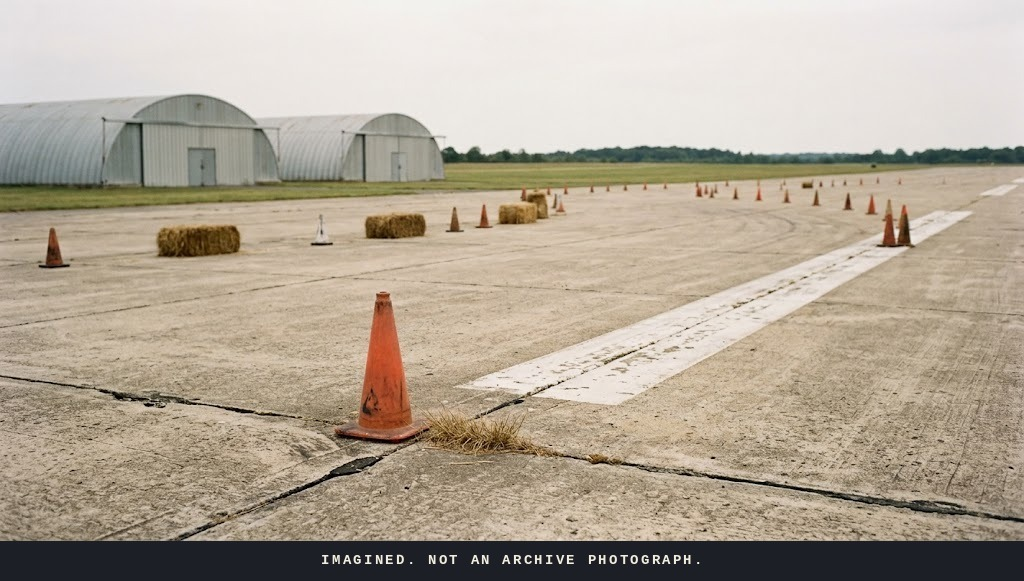
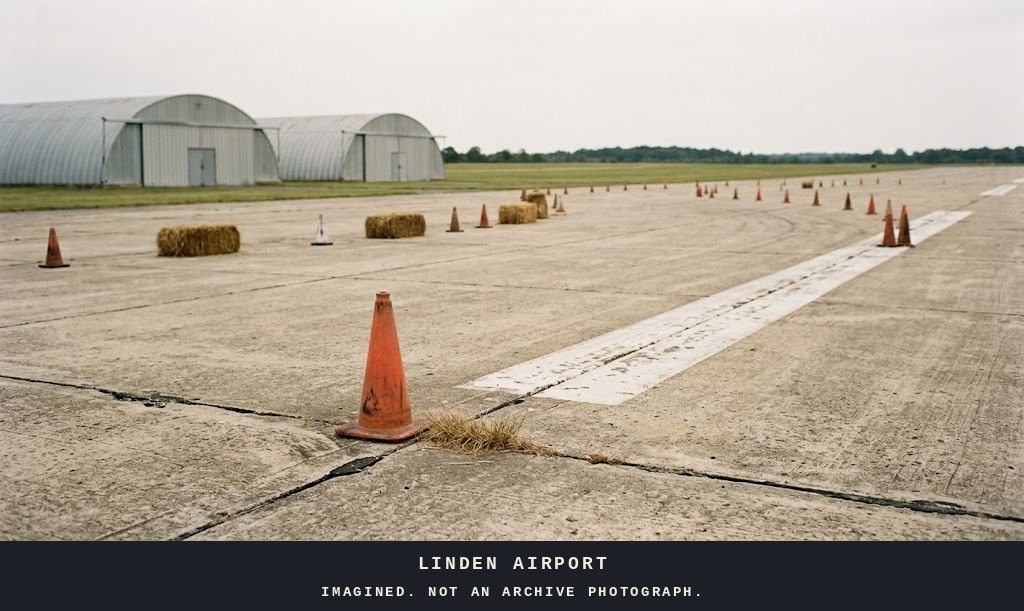
Ghost Tracks: plate titles, track name in burned-in label, expanded entries

diff --git a/ghost-tracks/north-carolina-state-fairgrounds/index.html b/ghost-tracks/north-carolina-state-fairgrounds/index.html
@@ -10,12 +10,12 @@
 <link rel="manifest" href="/site.webmanifest" />
 <meta name="theme-color" content="#1c1f26" />
 <title>North Carolina State Fairgrounds — Ghost Tracks — Throttle &amp; Rust</title>
-<meta name="description" content="Three Grand National races were run on the half-mile dirt oval at the North Carolina State Fairgrounds in Raleigh, and the last of them closed a door that stayed shut for half a ce" />
+<meta name="description" content="The half-mile dirt oval at the North Carolina State Fairgrounds in Raleigh opened in 1928, when the fair moved to the site it still occupies" />
 <link rel="canonical" href="https://throttleandrust.com/ghost-tracks/north-carolina-state-fairgrounds/" />
 <meta property="og:type" content="website" />
 <meta property="og:site_name" content="Throttle &amp; Rust" />
 <meta property="og:title" content="North Carolina State Fairgrounds — Ghost Tracks — Throttle &amp; Rust" />
-<meta property="og:description" content="Three Grand National races were run on the half-mile dirt oval at the North Carolina State Fairgrounds in Raleigh, and the last of them closed a door that stayed shut for half a ce" />
+<meta property="og:description" content="The half-mile dirt oval at the North Carolina State Fairgrounds in Raleigh opened in 1928, when the fair moved to the site it still occupies" />
 <meta property="og:url" content="https://throttleandrust.com/ghost-tracks/north-carolina-state-fairgrounds/" />
 <meta property="og:image" content="https://throttleandrust.com/images/ghost-tracks-nc-fairgrounds.jpg" />
 <meta name="twitter:card" content="summary_large_image" />
@@ -162,9 +162,9 @@
   <div class="header-eyebrow" style="margin-top:26px;">Ghost tracks</div>
   <h1 class="entry-title">North Carolina State Fairgrounds</h1>
   <div class="meta">Raleigh, North Carolina &nbsp;&middot;&nbsp; Three Cup races, 1955–1970</div>
-  <figure class="art entry-art"><img src="/images/ghost-tracks-nc-fairgrounds.jpg" alt="An empty half-mile dirt oval on flat fairground ground in early evening, a long low covered wooden grandstand on plain posts along the far side, bare utility poles behind it, thin dust over the far turn." loading="lazy" /><figcaption>The grandstand outlived the racing. This is the racing, put back. Imagined from the record. Not an archive photograph.</figcaption></figure>
+  <figure class="art entry-art"><img src="/images/ghost-tracks-nc-fairgrounds.jpg" alt="An empty half-mile dirt oval on flat fairground ground in early evening, a long low covered wooden grandstand on plain posts along the far side, bare utility poles behind it, thin dust over the far turn." loading="lazy" /><figcaption>The Last Dirt Half-Mile, Imagined. Not an archive photograph.</figcaption></figure>
 
-  <div class="entry-body"><p>Three Grand National races were run on the half-mile dirt oval at the North Carolina State Fairgrounds in Raleigh, and the last of them closed a door that stayed shut for half a century. Junior Johnson won the first, in May 1955, in a race rain cut short of its distance. David Pearson took the North State 200 in June 1969, leading 182 of the 200 laps. Richard Petty won the Home State 200 on September 30, 1970, and that afternoon turned out to be the final time NASCAR&#x27;s top division raced on dirt for fifty-one years, until the series returned to a clay-covered Bristol in 2021. The fairgrounds gave up racing shortly after. The grandstand is still standing, still owned by the state, and still put to use every October.</p></div>
+  <div class="entry-body"><p>The half-mile dirt oval at the North Carolina State Fairgrounds in Raleigh opened in 1928, when the fair moved to the site it still occupies. It held three Grand National races across fifteen years, and the last of them closed a door that stayed shut for half a century.</p><p>Junior Johnson won the first, in May 1955, in a race rain cut short of its distance. Fourteen years passed before the series came back. David Pearson took the North State 200 in June 1969, leading 182 of the 200 laps, with Richard Petty second. Petty won the Home State 200 the following September, leading the last 112 laps in front of a crowd of about six thousand.</p><p>That afternoon, September 30, 1970, turned out to be the final time NASCAR&#x27;s top division raced on dirt. The surface did not come back to the schedule for fifty-one years, until the series ran a clay-covered Bristol in 2021. The fairgrounds gave up racing shortly after 1970. The grandstand is still standing, still owned by the state, and still put to use every October.</p></div>
 
   <hr class="rule" />
   <div class="sources-label">Sources</div>

diff --git a/ghost-tracks/linden-airport/index.html b/ghost-tracks/linden-airport/index.html
@@ -10,12 +10,12 @@
 <link rel="manifest" href="/site.webmanifest" />
 <meta name="theme-color" content="#1c1f26" />
 <title>Linden Airport — Ghost Tracks — Throttle &amp; Rust</title>
-<meta name="description" content="Exactly one NASCAR Grand National race was ever held at Linden Airport, on a two-mile course laid out across the runways, and it produced a result the series has never repeated" />
+<meta name="description" content="Exactly one NASCAR Grand National race was ever held at Linden Airport, on a two-mile course laid out across the runways of a working airfield in New Jersey, and it produced a resu" />
 <link rel="canonical" href="https://throttleandrust.com/ghost-tracks/linden-airport/" />
 <meta property="og:type" content="website" />
 <meta property="og:site_name" content="Throttle &amp; Rust" />
 <meta property="og:title" content="Linden Airport — Ghost Tracks — Throttle &amp; Rust" />
-<meta property="og:description" content="Exactly one NASCAR Grand National race was ever held at Linden Airport, on a two-mile course laid out across the runways, and it produced a result the series has never repeated" />
+<meta property="og:description" content="Exactly one NASCAR Grand National race was ever held at Linden Airport, on a two-mile course laid out across the runways of a working airfield in New Jersey, and it produced a resu" />
 <meta property="og:url" content="https://throttleandrust.com/ghost-tracks/linden-airport/" />
 <meta property="og:image" content="https://throttleandrust.com/images/ghost-tracks-linden.jpg" />
 <meta name="twitter:card" content="summary_large_image" />
@@ -162,9 +162,9 @@
   <div class="header-eyebrow" style="margin-top:26px;">Ghost tracks</div>
   <h1 class="entry-title">Linden Airport</h1>
   <div class="meta">Linden, New Jersey &nbsp;&middot;&nbsp; One Cup race, 1954</div>
-  <figure class="art entry-art"><img src="/images/ghost-tracks-linden.jpg" alt="A wide expanse of weathered concrete runway under flat overcast light, a curving line of small traffic cones marking a temporary course across it, two low arched hangars in the middle distance, no aircraft and no people." loading="lazy" /><figcaption>Cones on a working runway, built back from the only race it ever had. Imagined from the record. Not an archive photograph.</figcaption></figure>
+  <figure class="art entry-art"><img src="/images/ghost-tracks-linden.jpg" alt="A wide expanse of weathered concrete runway under flat overcast light, a curving line of small traffic cones marking a temporary course across it, two low arched hangars in the middle distance, no aircraft and no people." loading="lazy" /><figcaption>Fifty Laps on a Runway, Imagined. Not an archive photograph.</figcaption></figure>
 
-  <div class="entry-body"><p>Exactly one NASCAR Grand National race was ever held at Linden Airport, on a two-mile course laid out across the runways, and it produced a result the series has never repeated. Forty-three cars started the International 100 on June 13, 1954, and roughly half the field was foreign iron: Jaguars, MGs, Austin-Healeys, a Porsche, a Morgan. Al Keller took the lead on the twenty-third of fifty laps in a Jaguar owned by the bandleader Paul Whiteman, and led the rest of the way. It stands as the only win by a European marque in NASCAR&#x27;s top division. The series never went back. The airport is still there, still working, still flying general aviation out of a single runway.</p></div>
+  <div class="entry-body"><p>Exactly one NASCAR Grand National race was ever held at Linden Airport, on a two-mile course laid out across the runways of a working airfield in New Jersey, and it produced a result the series has never repeated.</p><p>Forty-three cars started the International 100 on June 13, 1954. Roughly half the field was foreign iron: Jaguars, MGs, Austin-Healeys, a Porsche, a Morgan. Buck Baker put an Oldsmobile on the pole at a little over eighty miles an hour and traded the lead with Herb Thomas through the opening laps. Al Keller took it on the twenty-third of fifty laps in a Jaguar owned by the bandleader Paul Whiteman, and led the rest of the way. Four Jaguars finished in the top six.</p><p>It stands as the only win by a European marque in NASCAR&#x27;s top division. Nothing foreign won again in the series until Toyota, more than fifty years later. The race never returned to Linden, and neither did NASCAR. The airport is still there, still working, still flying general aviation off a single runway.</p></div>
 
   <hr class="rule" />
   <div class="sources-label">Sources</div>

diff --git a/ghost-tracks/memphis-arkansas-speedway/index.html b/ghost-tracks/memphis-arkansas-speedway/index.html
@@ -162,9 +162,9 @@
   <div class="header-eyebrow" style="margin-top:26px;">Ghost tracks</div>
   <h1 class="entry-title">Memphis-Arkansas Speedway</h1>
   <div class="meta">Lehi, Arkansas &nbsp;&middot;&nbsp; Five Cup races, 1954–1957</div>
-  <figure class="art entry-art"><img src="/images/ghost-tracks-memphis-arkansas.jpg" alt="An empty dirt oval at low sun, the near turn banked in rutted red-brown clay, a leaning weathered wooden guard rail along the outside, a flat pond at the far end and open bottomland beyond." loading="lazy" /><figcaption>A mile and a half of clay, built back out of a description. Imagined from the record. Not an archive photograph.</figcaption></figure>
+  <figure class="art entry-art"><img src="/images/ghost-tracks-memphis-arkansas.jpg" alt="An empty dirt oval at low sun, the near turn banked in rutted red-brown clay, a leaning weathered wooden guard rail along the outside, a flat pond at the far end and open bottomland beyond." loading="lazy" /><figcaption>Turn Three, Imagined. Not an archive photograph.</figcaption></figure>
 
-  <div class="entry-body"><p>NASCAR never ran on anything else like it. A mile and a half of dirt in the Arkansas bottomland near Lehi, banked high with soil dug out of two ponds at either end, it was the longest oval the series visited in the 1950s and it remains the longest dirt oval NASCAR has ever raced on. Five Grand National races were held there between 1954 and 1957, and the surface was the problem from the first one: heavy cars chewed the clay into a dust storm thick enough to stop the racing for long stretches. Two drivers were killed on the same June weekend in 1956, Clint McHugh in a qualifying crash that put his car in the lake fifty feet below the third turn, and Cotton Priddy in the race the following day. The owners could not raise the hundred thousand dollars it would have cost to pave it. They sold the land to a farmer in 1958, who raised catfish in the flooded infield and then leveled the banking for rice and soybeans.</p></div>
+  <div class="entry-body"><p>NASCAR never ran on anything else like it. A mile and a half of dirt in the Arkansas bottomland near Lehi, shaped like a paper clip, with long straights running into turns banked high on soil dug out of two ponds at either end. It was the longest track the series visited in the 1950s and it remains the longest dirt oval NASCAR has ever raced on. Only Darlington and the beach course at Daytona ran faster.</p><p>Five Grand National races were held there between 1954 and 1957. Fifty-two cars took the green for the first one. The surface was the problem from that day forward: heavy cars chewed the clay into a dust storm thick enough to stop the racing for long stretches, and the track kept swallowing the money it would have taken to fix it. Qualifying speeds still touched a hundred miles an hour.</p><p>Two drivers were killed on the same June weekend in 1956, Clint McHugh in a qualifying crash that put his car in the lake fifty feet below the third turn, and Cotton Priddy in the race the following day. The owners could not raise the hundred thousand dollars it would have cost to pave it. The last race ran in July 1957. They sold the land to a farmer the next year, who raised catfish in the flooded infield and then leveled the banking for rice and soybeans.</p></div>
 
   <hr class="rule" />
   <div class="sources-label">Sources</div>

diff --git a/ghost-tracks/index.html b/ghost-tracks/index.html
@@ -174,8 +174,12 @@
     <div class="lead-label">This week</div>
     <div class="lead-name"><a href="/ghost-tracks/memphis-arkansas-speedway/">Memphis-Arkansas Speedway</a></div>
     <div class="meta">Lehi, Arkansas &nbsp;&middot;&nbsp; Five Cup races, 1954–1957</div>
-    <figure class="art lead-art"><img src="/images/ghost-tracks-memphis-arkansas.jpg" alt="An empty dirt oval at low sun, the near turn banked in rutted red-brown clay, a leaning weathered wooden guard rail along the outside, a flat pond at the far end and open bottomland beyond." /><figcaption>A mile and a half of clay, built back out of a description. Imagined from the record. Not an archive photograph.</figcaption></figure>
-    <div class="lead-body">NASCAR never ran on anything else like it. A mile and a half of dirt in the Arkansas bottomland near Lehi, banked high with soil dug out of two ponds at either end, it was the longest oval the series visited in the 1950s and it remains the longest dirt oval NASCAR has ever raced on. Five Grand National races were held there between 1954 and 1957, and the surface was the problem from the first one: heavy cars chewed the clay into a dust storm thick enough to stop the racing for long stretches. Two drivers were killed on the same June weekend in 1956, Clint McHugh in a qualifying crash that put his car in the lake fifty feet below the third turn, and Cotton Priddy in the race the following day. The owners could not raise the hundred thousand dollars it would have cost to pave it. They sold the land to a farmer in 1958, who raised catfish in the flooded infield and then leveled the banking for rice and soybeans.</div>
+    <figure class="art lead-art"><img src="/images/ghost-tracks-memphis-arkansas.jpg" alt="An empty dirt oval at low sun, the near turn banked in rutted red-brown clay, a leaning weathered wooden guard rail along the outside, a flat pond at the far end and open bottomland beyond." /><figcaption>Turn Three, Imagined. Not an archive photograph.</figcaption></figure>
+    <div class="lead-body">NASCAR never ran on anything else like it. A mile and a half of dirt in the Arkansas bottomland near Lehi, shaped like a paper clip, with long straights running into turns banked high on soil dug out of two ponds at either end. It was the longest track the series visited in the 1950s and it remains the longest dirt oval NASCAR has ever raced on. Only Darlington and the beach course at Daytona ran faster.
+
+Five Grand National races were held there between 1954 and 1957. Fifty-two cars took the green for the first one. The surface was the problem from that day forward: heavy cars chewed the clay into a dust storm thick enough to stop the racing for long stretches, and the track kept swallowing the money it would have taken to fix it. Qualifying speeds still touched a hundred miles an hour.
+
+Two drivers were killed on the same June weekend in 1956, Clint McHugh in a qualifying crash that put his car in the lake fifty feet below the third turn, and Cotton Priddy in the race the following day. The owners could not raise the hundred thousand dollars it would have cost to pave it. The last race ran in July 1957. They sold the land to a farmer the next year, who raised catfish in the flooded infield and then leveled the banking for rice and soybeans.</div>
   </div>
 
   <div class="register-label">The register &middot; 30 tracks</div>

diff --git a/index.html b/index.html
@@ -736,7 +736,11 @@
     <div style="font-family:'Special Elite',monospace;font-size:11px;letter-spacing:0.3em;text-transform:uppercase;color:#a23b1f;margin-bottom:14px;"><a href="/ghost-tracks/" style="color:#a23b1f;text-decoration:none;border-bottom:1px solid rgba(162,59,31,0.35);">Ghost track of the week</a></div>
     <div style="font-family:'Playfair Display',serif;font-style:italic;font-size:24px;line-height:1.35;color:#1c1f26;margin-bottom:6px;"><a href="/ghost-tracks/memphis-arkansas-speedway/" style="color:#1c1f26;text-decoration:none;">Memphis-Arkansas Speedway</a></div>
     <div style="font-family:'Special Elite',monospace;font-size:10.5px;letter-spacing:0.18em;text-transform:uppercase;color:#8a8c92;margin-bottom:12px;">Lehi, Arkansas &middot; Five Cup races, 1954–1957</div>
-    <div style="font-family:'IBM Plex Mono',monospace;font-size:13px;color:#4a4d55;line-height:1.65;">NASCAR never ran on anything else like it. A mile and a half of dirt in the Arkansas bottomland near Lehi, banked high with soil dug out of two ponds at either end, it was the longest oval the series visited in the 1950s and it remains the longest dirt oval NASCAR has ever raced on. Five Grand National races were held there between 1954 and 1957, and the surface was the problem from the first one: heavy cars chewed the clay into a dust storm thick enough to stop the racing for long stretches. Two drivers were killed on the same June weekend in 1956, Clint McHugh in a qualifying crash that put his car in the lake fifty feet below the third turn, and Cotton Priddy in the race the following day. The owners could not raise the hundred thousand dollars it would have cost to pave it. They sold the land to a farmer in 1958, who raised catfish in the flooded infield and then leveled the banking for rice and soybeans.</div>
+    <div style="font-family:'IBM Plex Mono',monospace;font-size:13px;color:#4a4d55;line-height:1.65;">NASCAR never ran on anything else like it. A mile and a half of dirt in the Arkansas bottomland near Lehi, shaped like a paper clip, with long straights running into turns banked high on soil dug out of two ponds at either end. It was the longest track the series visited in the 1950s and it remains the longest dirt oval NASCAR has ever raced on. Only Darlington and the beach course at Daytona ran faster.
+
+Five Grand National races were held there between 1954 and 1957. Fifty-two cars took the green for the first one. The surface was the problem from that day forward: heavy cars chewed the clay into a dust storm thick enough to stop the racing for long stretches, and the track kept swallowing the money it would have taken to fix it. Qualifying speeds still touched a hundred miles an hour.
+
+Two drivers were killed on the same June weekend in 1956, Clint McHugh in a qualifying crash that put his car in the lake fifty feet below the third turn, and Cotton Priddy in the race the following day. The owners could not raise the hundred thousand dollars it would have cost to pave it. The last race ran in July 1957. They sold the land to a farmer the next year, who raised catfish in the flooded infield and then leveled the banking for rice and soybeans.</div>
   </div>
   <!-- GHOST:END -->
 

diff --git a/scripts/label-imagined.py b/scripts/label-imagined.py
@@ -1,7 +1,14 @@
 #!/usr/bin/env python3
 """Burn an "imagined, not archival" label into a generated track image.
 
-    python3 scripts/label-imagined.py <in.jpg> <out.jpg> [--text "..."]
+    python3 scripts/label-imagined.py <in.jpg> <out.jpg> [--name "TRACK NAME"] [--text "..."]
+
+With --name the bar runs two lines: the track name above, the disclaimer below.
+Two lines rather than one long string on purpose, so the disclaimer keeps a
+readable size instead of shrinking to fit beside a long place name.
+
+Always run this on the ORIGINAL generated file. Running it on an already
+labelled image stacks a second bar under the first.
 
 Why this exists, because it will look like belt-and-braces later and it is not:
 
@@ -65,29 +72,47 @@ def _tracked_width(draw, text, font, spacing):
     return sum(draw.textlength(c, font=font) + spacing for c in text) - spacing
 
 
-def label(src, dst, text=DEFAULT_TEXT):
+def _fit(draw, text, w, start_px):
+    """Largest font at or below start_px whose tracked width fits the margins."""
+    size = start_px
+    while size > 8:
+        font = _font(size)
+        spacing = max(1.0, size * 0.16)
+        if _tracked_width(draw, text, font, spacing) <= w - size * 4:
+            return font, spacing, size
+        size -= 1
+    font = _font(8)
+    return font, 1.0, 8
+
+
+def label(src, dst, text=DEFAULT_TEXT, name=None):
     im = Image.open(src).convert("RGB")
     w, h = im.size
+
+    lines = [name.upper(), text] if name else [text]
     bar = max(BAR_MIN, int(h * BAR_RATIO))
+    if name:
+        bar = int(bar * 1.75)
 
     out = Image.new("RGB", (w, h + bar), INK)
     out.paste(im, (0, 0))
     draw = ImageDraw.Draw(out)
 
-    size = max(9, int(bar * 0.36))
-    font = _font(size)
-    spacing = max(1.0, size * 0.16)
-
-    # Shrink until it fits the width with margins, rather than letting it clip.
-    while _tracked_width(draw, text, font, spacing) > w - bar and size > 8:
-        size -= 1
-        font = _font(size)
-        spacing = max(1.0, size * 0.16)
-
-    tw = _tracked_width(draw, text, font, spacing)
-    x = (w - tw) / 2
-    y = h + (bar - size) / 2 - size * 0.12
-    _track(draw, (x, y), text, font, CREAM, spacing)
+    if name:
+        # Name slightly larger than the disclaimer, both centred, name on top.
+        fonts = [_fit(draw, lines[0], w, int(bar * 0.26)),
+                 _fit(draw, lines[1], w, int(bar * 0.21))]
+        total = sum(f[2] for f in fonts) + bar * 0.16
+        y = h + (bar - total) / 2
+        for line, (font, spacing, size) in zip(lines, fonts):
+            tw = _tracked_width(draw, line, font, spacing)
+            _track(draw, ((w - tw) / 2, y), line, font, CREAM, spacing)
+            y += size + bar * 0.16
+    else:
+        font, spacing, size = _fit(draw, text, w, int(bar * 0.36))
+        tw = _tracked_width(draw, text, font, spacing)
+        _track(draw, ((w - tw) / 2, h + (bar - size) / 2 - size * 0.12),
+               text, font, CREAM, spacing)
 
     out.save(dst, "JPEG", quality=92, optimize=True, progressive=True)
     return out.size
@@ -95,13 +120,19 @@ def label(src, dst, text=DEFAULT_TEXT):
 
 if __name__ == "__main__":
     args = [a for a in sys.argv[1:]]
-    text = DEFAULT_TEXT
-    if "--text" in args:
-        i = args.index("--text")
-        text = args[i + 1]
-        args = args[:i] + args[i + 2:]
+    text, name = DEFAULT_TEXT, None
+    for flag in ("--text", "--name"):
+        if flag in args:
+            i = args.index(flag)
+            value = args[i + 1]
+            if flag == "--text":
+                text = value
+            else:
+                name = value
+            args = args[:i] + args[i + 2:]
     if len(args) != 2:
         print(__doc__.strip().splitlines()[2])
         sys.exit(1)
-    size = label(args[0], args[1], text)
-    print("wrote %s at %dx%d with label: %s" % (args[1], size[0], size[1], text))
+    size = label(args[0], args[1], text, name)
+    print("wrote %s at %dx%d | %s%s"
+          % (args[1], size[0], size[1], (name.upper() + " / ") if name else "", text))

diff --git a/scripts/build-ghost-tracks.py b/scripts/build-ghost-tracks.py
@@ -11,11 +11,19 @@ entry, and rewrites the ghost-track block in sitemap.xml.
 House rules this generator enforces, because the pages are permanent and the
 social posts they come from were not:
   - No byline anywhere. The section is an unattributed record.
-  - Generated art only, and it never depicts a cited track. Archive photography
-    on this domain is a rights problem the social channel does not have, and an
-    AI photograph of a real, sourced place sitting above its own citations reads
-    as evidence of that place. So the art here is textless ephemera — a stub, a
-    program, weeds in asphalt — never a rendering of the track in the entry.
+  - Generated art only, never archive photography. That is a rights problem on
+    this domain which the ephemeral social channel does not have.
+  - Two art lanes. Lane 1 is textless ephemera (a stub, a program, weeds in
+    asphalt), shot photographically, never depicting a track. Lane 2 may depict
+    the track itself and is opted into with "imagined": true on the entry.
+  - Lane 2 art must carry a disclaimer burned into the image by
+    scripts/label-imagined.py before it is placed. The risk was never a picture
+    of a track, it was a picture that could pass as evidence of one while
+    sitting above that entry's own citations, and a page caption does not
+    survive being scraped into a social card or screenshotted. Caption for
+    readers, pixels for everyone else.
+  - No lettering in any generated frame, no faces or people, no identifiable
+    liveries or numbers, no logos.
   - Images are optional and self-healing. An entry with no "image" key, or one
     whose file is not on disk yet, renders text-only and prints a warning.
   - Every entry carries its sources.
@@ -50,7 +58,25 @@ DISCLAIM = "Illustration. Not an archive photograph."
 # scripts/label-imagined.py, because this text does not survive being scraped
 # into a social card, screenshotted, or reposted, and those are the normal ways
 # these images travel. Caption for readers, pixels for everyone else.
-DISCLAIM_IMAGINED = "Imagined from the record. Not an archive photograph."
+#
+# Kept short because imagined-lane captions are now plate titles that already
+# end in "Imagined" ("Turn Three, Imagined"), so restating it here would be the
+# third time on one page. The burned-in bar carries the full sentence.
+DISCLAIM_IMAGINED = "Not an archive photograph."
+
+
+def caption_with(caption, stamp):
+    """Join a caption to its disclaimer stamp with sane punctuation.
+
+    Imagined-lane captions are plate titles ("Turn Three, Imagined") and carry
+    no terminal punctuation, so a bare space ran them into the stamp.
+    """
+    if not caption:
+        return stamp
+    caption = caption.strip()
+    if caption[-1] not in ".!?":
+        caption += "."
+    return f"{caption} {stamp}"
 
 
 def have(path):
@@ -280,8 +306,7 @@ def detail(entry, prev_e, next_e):
               % (entry["slug"], img))
     elif img:
         stamp = DISCLAIM_IMAGINED if entry.get("imagined") else DISCLAIM
-        cap = (f'{e(entry["caption"])} {stamp}'
-               if entry.get("caption") else stamp)
+        cap = caption_with(e(entry["caption"]) if entry.get("caption") else "", stamp)
         art = (f'<figure class="art entry-art"><img src="{img}" alt="{e(entry.get("alt", ""))}" '
                f'loading="lazy" /><figcaption>{cap}</figcaption></figure>')
 
@@ -350,7 +375,7 @@ def index(entries):
     lead_art = ""
     if have(lead_img):
         stamp = DISCLAIM_IMAGINED if lead.get("imagined") else DISCLAIM
-        cap = f'{e(lead["caption"])} {stamp}' if lead.get("caption") else stamp
+        cap = caption_with(e(lead["caption"]) if lead.get("caption") else "", stamp)
         lead_art = (f'<figure class="art lead-art"><img src="{lead_img}" '
                     f'alt="{e(lead.get("alt", ""))}" /><figcaption>{cap}</figcaption></figure>')
 
